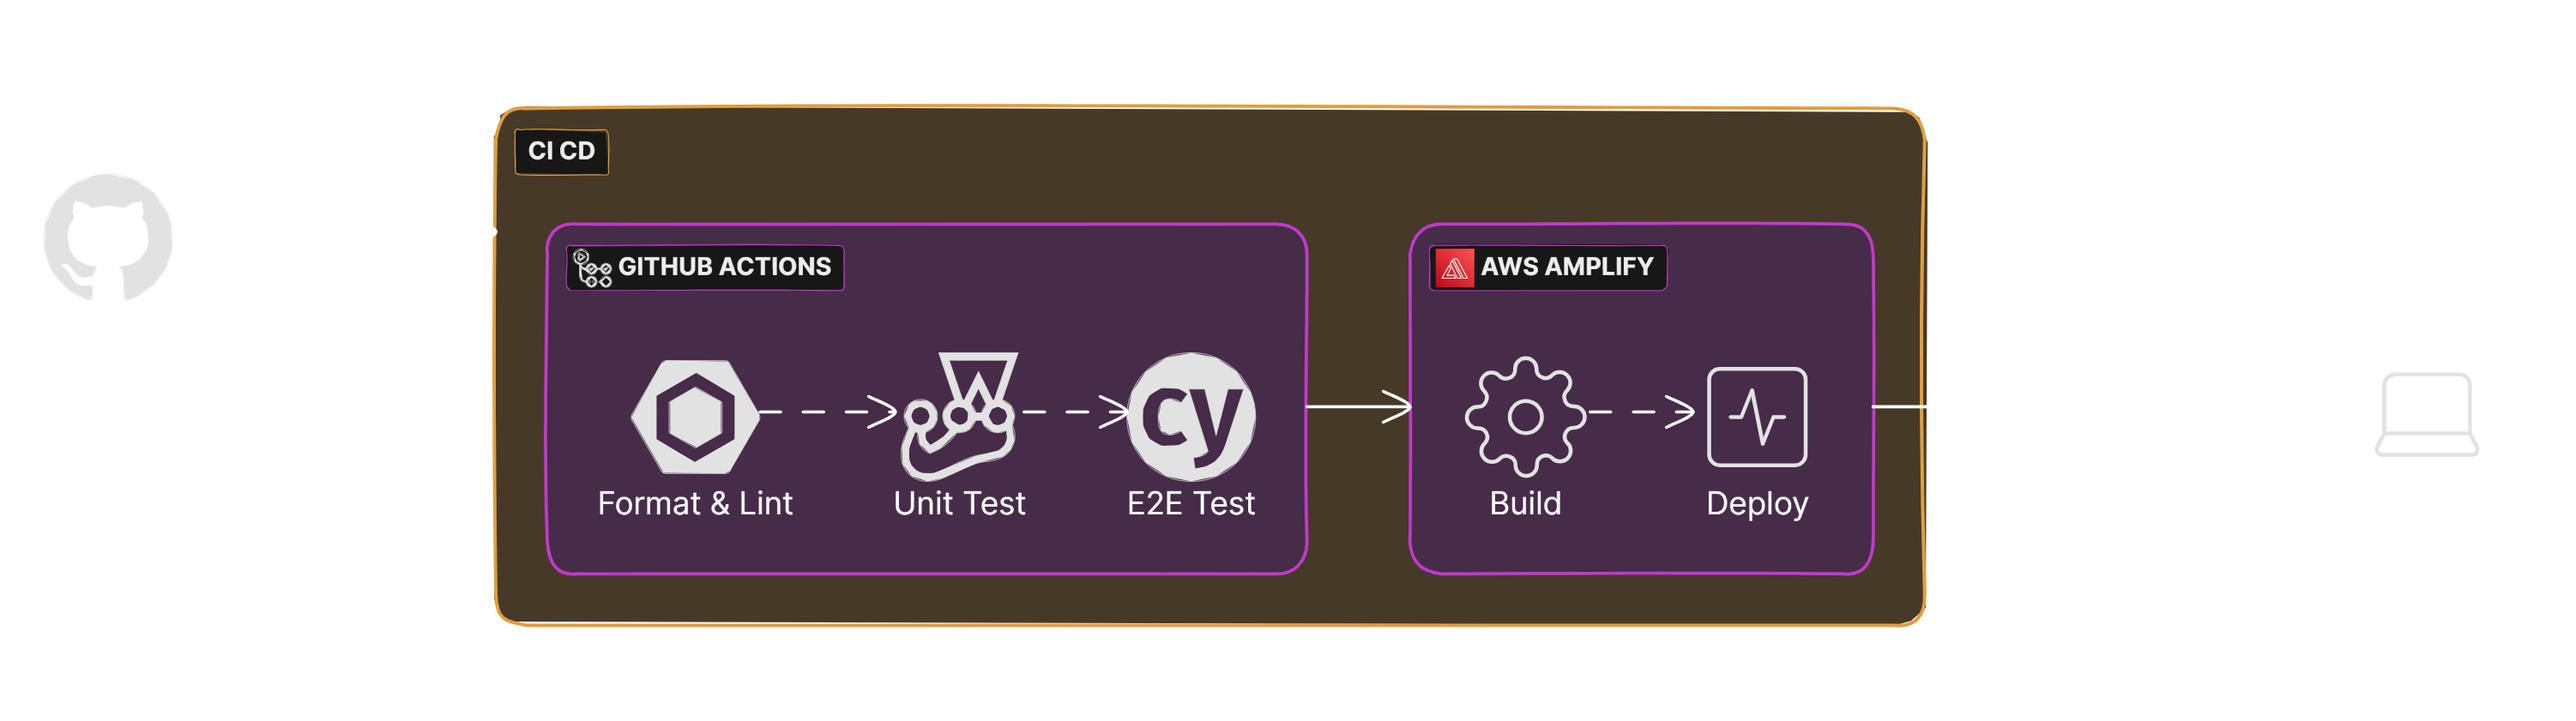
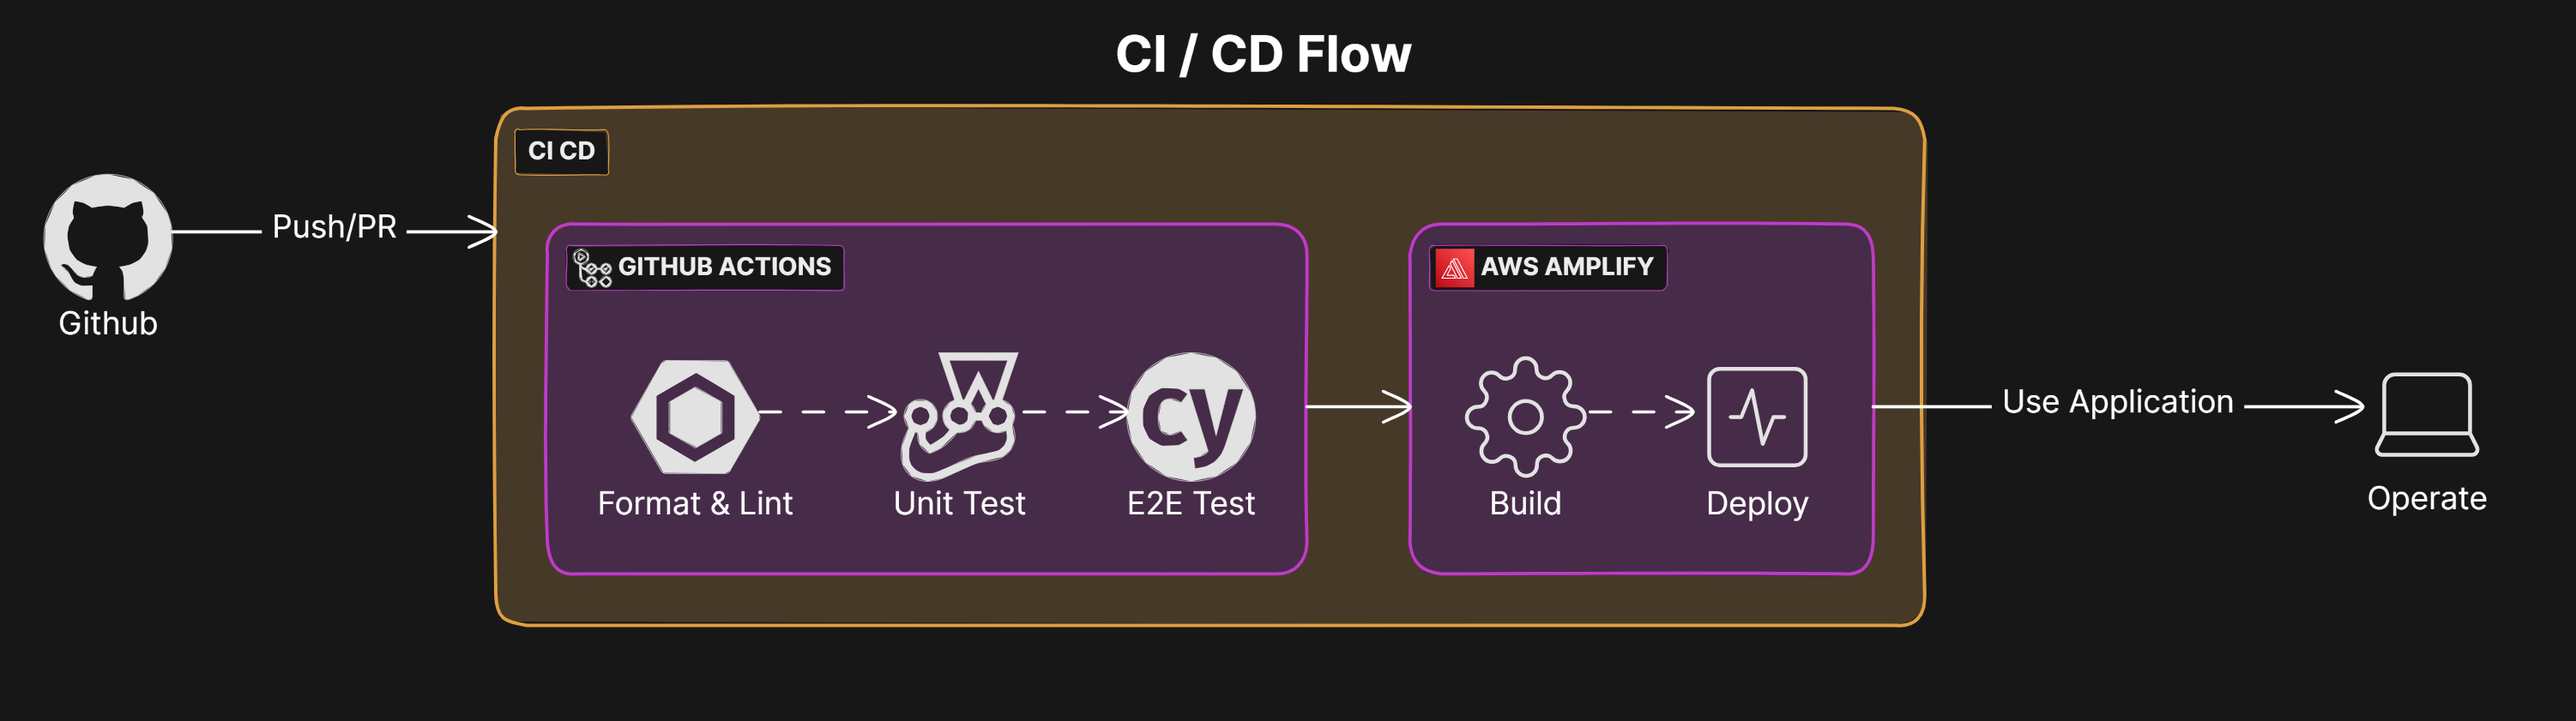
chore: updated docs

diff --git a/docs/GUIDE.md b/docs/GUIDE.md
@@ -52,12 +52,129 @@
 - **_action-type_** - `create` | `edit` | `duplicate`
 - **_active-step_** - `basic` | `platform` | `timeline`
 
+## Sample Session
+
+<details>
+<summary>Sample Quiz Session</summary>
+
+```json
+{
+  "auth_type": "ID",
+  "created_by_id": null,
+  "end_time": "2024-08-26T16:00:00Z",
+  "id": 825,
+  "id_generation": false,
+  "inserted_at": "2024-08-19T11:54:57",
+  "is_active": true,
+  "meta_data": {
+    "admin_testing_link": "https://staging-quiz.avantifellows.org/quiz/66c5fb6b23b8aa8bac7665d4?apiKey=6qOO8UdF1EGxLgzwIbQN&userId=test_admin",
+    "batch_id": "HaryanaStudents_9_Foundation_24_001",
+    "cms_test_id": "https://cms.peerlearning.com/chapter_tests/6556f6763562d97a6300aa35",
+    "course": "Foundation",
+    "date_created": "2024-08-19T17:24:57.292Z",
+    "grade": 9,
+    "group": "HaryanaStudents",
+    "has_synced_to_bq": false,
+    "infinite_session": false,
+    "marking_scheme": "4,-1",
+    "number_of_fields_in_popup_form": "",
+    "optional_limits": "N/A",
+    "parent_id": "HR-9-Foundation-24",
+    "report_link": "https://lnk.avantifellows.org/8KdG",
+    "shortened_link": "https://lnk.avantifellows.org/Jtcn",
+    "show_answers": false,
+    "status": "success",
+    "stream": "pcmb",
+    "test_format": "mock_test",
+    "test_purpose": "one_time",
+    "test_takers_count": 10,
+    "test_type": "assessment"
+  },
+  "name": "Cypress Quiz Session",
+  "owner_id": null,
+  "platform": "quiz",
+  "platform_id": "66c5fb6b23b8aa8bac7665d4",
+  "platform_link": "66c5fb6b23b8aa8bac7665d4",
+  "popup_form": false,
+  "popup_form_id": null,
+  "portal_link": "https://staging-auth.avantifellows.org?sessionId=HaryanaStudents_66c5fb6b23b8aa8bac7665d4",
+  "purpose": {
+    "params": "quiz",
+    "type": "attendance"
+  },
+  "redirection": true,
+  "repeat_schedule": {
+    "params": [1, 2, 3, 4, 5],
+    "type": "weekly"
+  },
+  "session_id": "HaryanaStudents_66c5fb6b23b8aa8bac7665d4",
+  "signup_form": false,
+  "signup_form_id": null,
+  "start_time": "2024-08-19T10:00:00Z",
+  "type": "sign-in",
+  "updated_at": "2024-08-21T14:36:30"
+}
+```
+
+</details>
+
+<details>
+<summary>Sample Live Session</summary>
+
+```json
+{
+  "auth_type": "ID",
+  "created_by_id": null,
+  "end_time": "2024-08-23T20:00:00Z",
+  "id": 826,
+  "id_generation": false,
+  "inserted_at": "2024-08-19T12:21:29",
+  "is_active": true,
+  "meta_data": {
+    "batch_id": "HaryanaStudents_9_Foundation_24_001,HaryanaStudents_10_Foundation_24_001",
+    "date_created": "2024-08-19T17:51:28.813Z",
+    "grade": 9,
+    "group": "HaryanaStudents",
+    "number_of_fields_in_popup_form": "",
+    "parent_id": "",
+    "shortened_link": "https://lnk.avantifellows.org/L7gH",
+    "status": "success",
+    "subject": "Maths,Physics",
+    "test_takers_count": 10
+  },
+  "name": "Cypress Live Session Edit",
+  "owner_id": null,
+  "platform": "youtube",
+  "platform_id": "jfKfPfyJRdk",
+  "platform_link": "https://www.youtube.com/live/jfKfPfyJRdk",
+  "popup_form": false,
+  "popup_form_id": null,
+  "portal_link": "https://staging-auth.avantifellows.org?sessionId=HaryanaStudents_HaryanaStudents_9_Foundation_24_001,HaryanaStudents_10_Foundation_24_001_45523_jfKfPfyJRdk",
+  "purpose": {
+    "sub-type": "liveclass"
+  },
+  "redirection": true,
+  "repeat_schedule": {
+    "params": [1, 2, 3, 4, 5, 6, 7],
+    "type": "weekly"
+  },
+  "session_id": "HaryanaStudents_HaryanaStudents_9_Foundation_24_001,HaryanaStudents_10_Foundation_24_001_45523_jfKfPfyJRdk",
+  "signup_form": false,
+  "signup_form_id": null,
+  "start_time": "2024-08-19T08:00:00Z",
+  "type": "sign-in",
+  "updated_at": "2024-08-19T12:28:26"
+}
+```
+
+</details>
+
 ## Diagrams
 
 <details>
 <summary>Architecture</summary>
 
-![Architecture Diagram](../docs/images/architecture.png)
+![Architecture Diagram](./images/architecture.png)
 
 </details>
 
@@ -65,15 +182,7 @@
 
 <summary>Sequence Diagram</summary>
 
-![Sequence Diagram](../docs/images/sequence.png)
-
-</details>
-
-<details>
-
-<summary>CI/CD Flow Diagram</summary>
-
-![CI CD Flow](../docs/images/ci-cd-flow.png)
+![Sequence Diagram](./images/sequence.png)
 
 </details>
 

diff --git a/docs/E2E-TESTING.md b/docs/E2E-TESTING.md
@@ -1,0 +1,74 @@
+# E2E Flow with Cypress and MSW for SSR
+
+In our end-to-end (E2E) testing, we use Cypress paired with MSW to mock APIs, especially for testing server-side rendering (SSR) flows. Here’s why this combo works so well:
+
+**_Why Cypress?_**
+
+Cypress is great for E2E testing because it lets us interact with the app just like a user would. We can simulate clicks, form submissions, and other interactions, then check if everything responds as expected. It's fast, reliable, and integrates smoothly with our development workflow.
+
+**_Why MSW?_**
+
+When it comes to SSR, things can get tricky because server-side logic often depends on external APIs. That’s where MSW (_Mock Service Worker_) comes in. By mocking these API calls, MSW allows us to simulate various backend responses directly in our tests. This way, we can test how the app behaves without relying on the actual backend, which can be slow, unpredictable, or difficult to control.
+
+**_How It Works Together_**
+
+Cypress handles the user interactions, while MSW ensures that the SSR logic gets the data it expects, regardless of what’s going on with the real backend. This setup gives us confidence that our SSR pages will render correctly and that our app’s UI will behave as intended, even in edge cases.
+
+### How to Run It?
+
+To run the application with the mock server enabled, follow these steps:
+
+1. **Set Up Environment Variables**: Copy the .env.example and set the environment variables. Make sure to set the `APP_ENV="testing"` to use msw.
+
+2. **Start the Application**: Run the application.
+
+   ```bash
+   npm run build
+   npm run start
+   ```
+
+> The mock server will automatically start if APP_ENV is set to "testing".
+
+3. **Verify Mock Server Activation**: When the application starts, you should see console logs confirming that the mock server has been started:
+
+   ```bash
+   Starting Mock Server...
+   Mock Server Started!
+   ```
+
+4. **Run E2E Tests**: To run your end-to-end tests, just execute:
+
+   ```bash
+   npm run test:cypress
+   ```
+
+### Key Files to Know
+
+- **Mock Handlers:** `cypress/mocks/handlers.ts`
+
+  This file contains the API mocking logic for SSR. It defines handlers for API routes, simulating requests like fetching sessions, creating sessions, and patching session data.
+
+- **Mock Data:** `cypress/mocks/mockdata.ts`
+
+  This data simulates user input in forms and is used by the handlers to respond to requests.
+
+- **Initial Sessions Data:** `cypress/fixtures/initial_sessions.json`
+
+  This file contains the initial data that's mocked as if it were in the database. The mock server uses this data to simulate a real backend.
+
+- **E2E Test Files:**
+
+  - `cypress/e2e/quiz.cy.ts`: Tests related to quiz sessions.
+  - `cypress/e2e/live.cy.ts`: Tests related to live sessions.
+
+- **Support File:** `cypress\support\index.ts`
+
+  Custom commands to test flow easily.
+
+  - `customInput(name: string, value: string)`
+  - `customSelect(name: string, option: Option)`
+  - `customMultiSelect(name: string, options: Option[])`
+  - `customSwitch(name: string, value: boolean)`
+  - `customDatePicker(name: string, value: Date)`
+  - `customCheckbox(name: string, values: any[])`
+  - `checkDisabled(selector: string[])`

diff --git a/docs/CI_CD.md b/docs/CI_CD.md
@@ -1,0 +1,23 @@
+# CI/CD Documentation
+
+This pipeline is set up to ensure our code is clean, reliable, and thoroughly tested before it hits the main branch. Here's how it flows:
+
+<details>
+
+<summary>CI/CD Flow Diagram</summary>
+
+![CI CD Flow](./images/ci-cd-flow.png)
+
+</details>
+
+### Github Action Workflows
+
+1. **[Large File Checks](../.github/workflows/checks.yml)**: We check for any oversized files. We don’t want anything over 5MB sneaking into the repository.
+
+2. **[Code Quality Checks](../.github/workflows/checks.yml)**: Next, we run our code through ESLint and Prettier. This step makes sure everything is properly formatted and free of linting issues.
+
+3. **[Unit Tests](../.github/workflows/tests.yaml)**: After that, Jest comes into play to run our unit tests. This checks if all the components and functions are behaving as they should be, catching any issues early on.
+
+4. **[E2E Tests](../.github/workflows/tests.yaml)**: Finally, we dive into the E2E tests with Cypress. We run these tests in both Chrome and Firefox, making sure the app works as expected across different browsers. These tests also use MSW to mock APIs, ensuring our server-side rendering (SSR) flows are tested just right.
+
+> Once the CI checks are cleared, our code automatically gets deployed using **_AWS Amplify_**.
